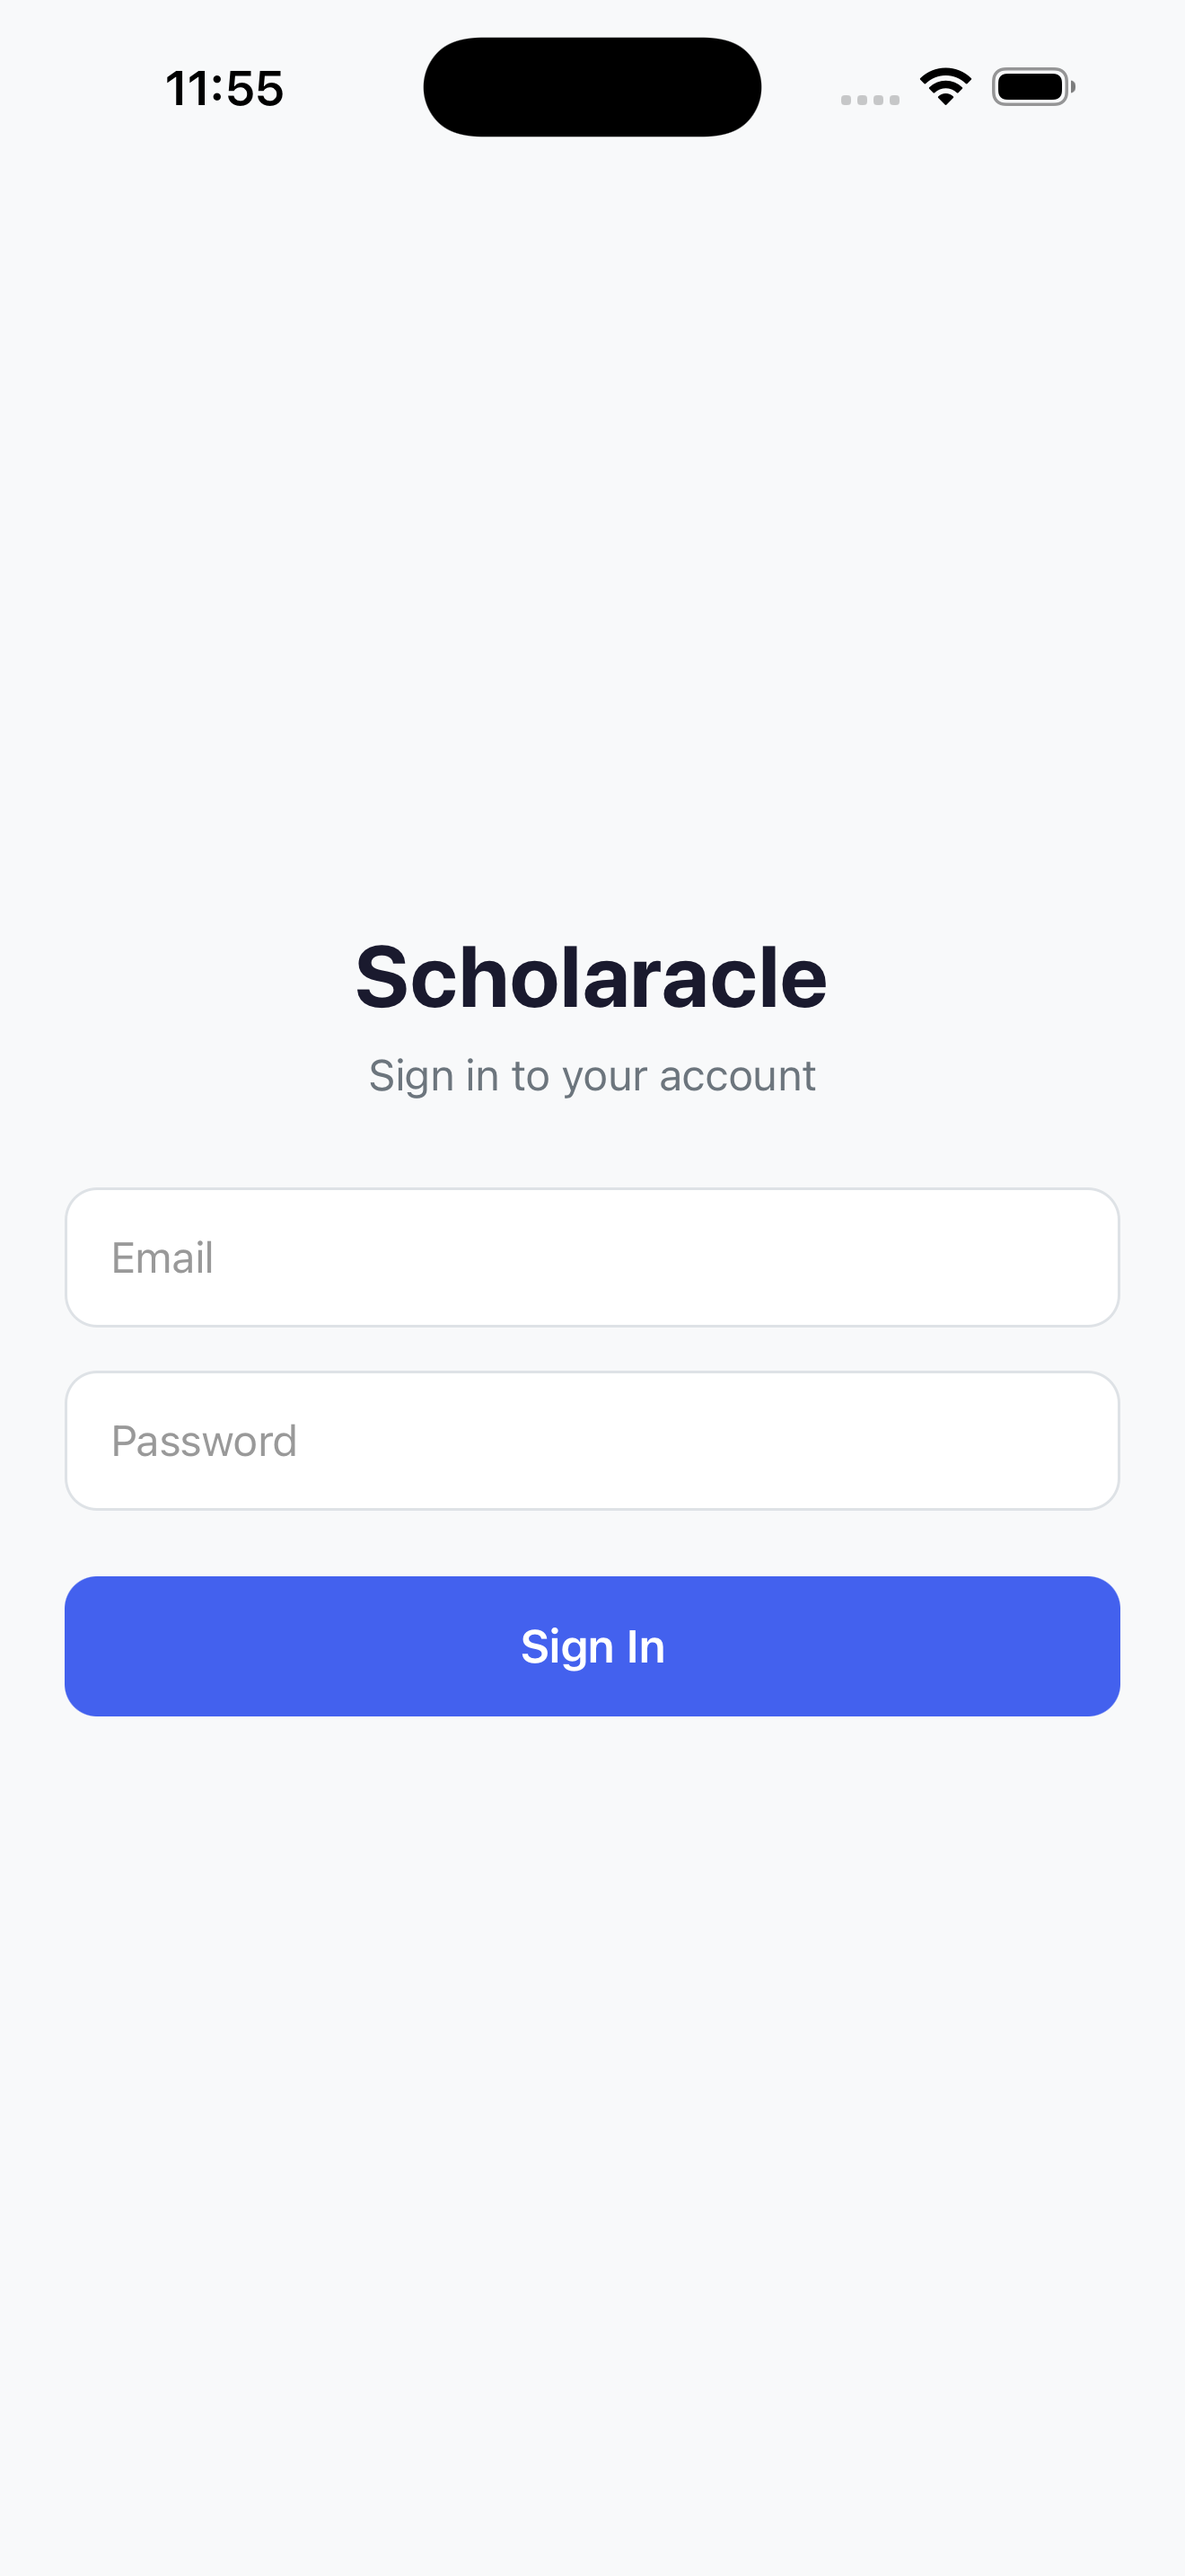
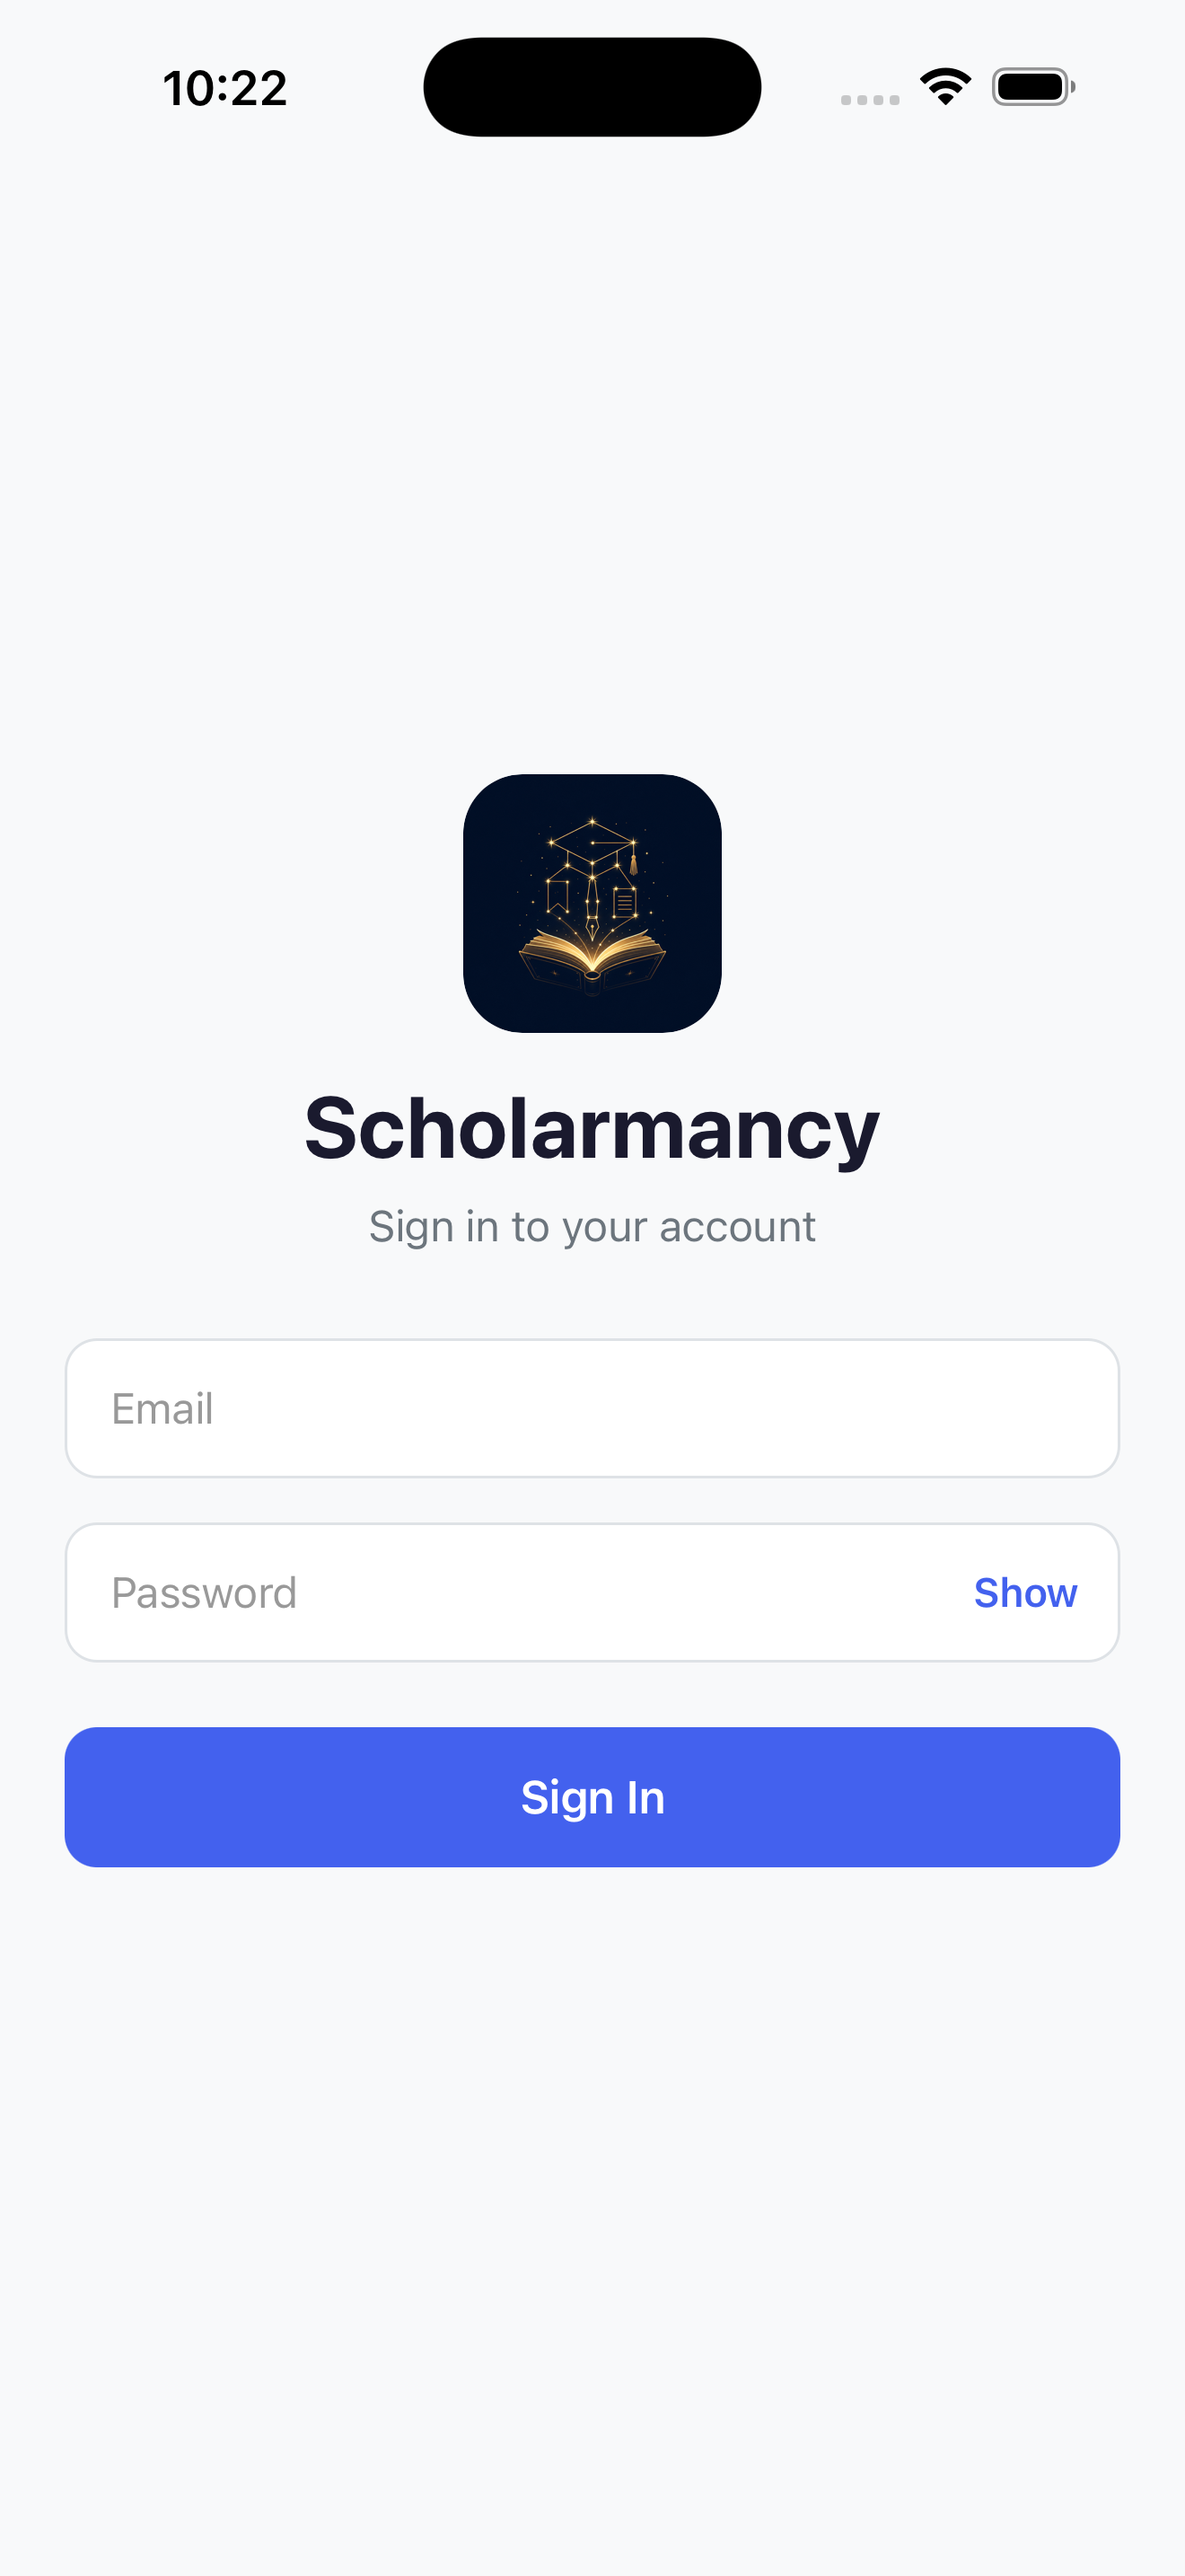
fix(mobile): wrap app in SafeAreaView — headers rendered under Dynamic Island; add 6.9in App Store screenshots

diff --git a/packages/mobile/App.tsx b/packages/mobile/App.tsx
@@ -5,7 +5,7 @@
 import React, { useState, useEffect, useCallback } from 'react';
 import { StatusBar } from 'expo-status-bar';
 import { View, StyleSheet, Alert } from 'react-native';
-import { SafeAreaProvider } from 'react-native-safe-area-context';
+import { SafeAreaProvider, SafeAreaView } from 'react-native-safe-area-context';
 import { AuthProvider, useAuth } from './src/auth/AuthContext';
 import { LoginScreen } from './src/screens/LoginScreen';
 import { StudentsScreen } from './src/screens/StudentsScreen';
@@ -120,7 +120,9 @@ export default function App(): React.ReactElement {
   return (
     <SafeAreaProvider>
       <AuthProvider>
-        <AppContent />
+        <SafeAreaView style={styles.safeArea} edges={['top', 'bottom']}>
+          <AppContent />
+        </SafeAreaView>
         <StatusBar style="auto" />
       </AuthProvider>
     </SafeAreaProvider>
@@ -129,4 +131,5 @@ export default function App(): React.ReactElement {
 
 const styles = StyleSheet.create({
   loading: { flex: 1, backgroundColor: '#f8f9fa' },
+  safeArea: { flex: 1, backgroundColor: '#f8f9fa' },
 });
